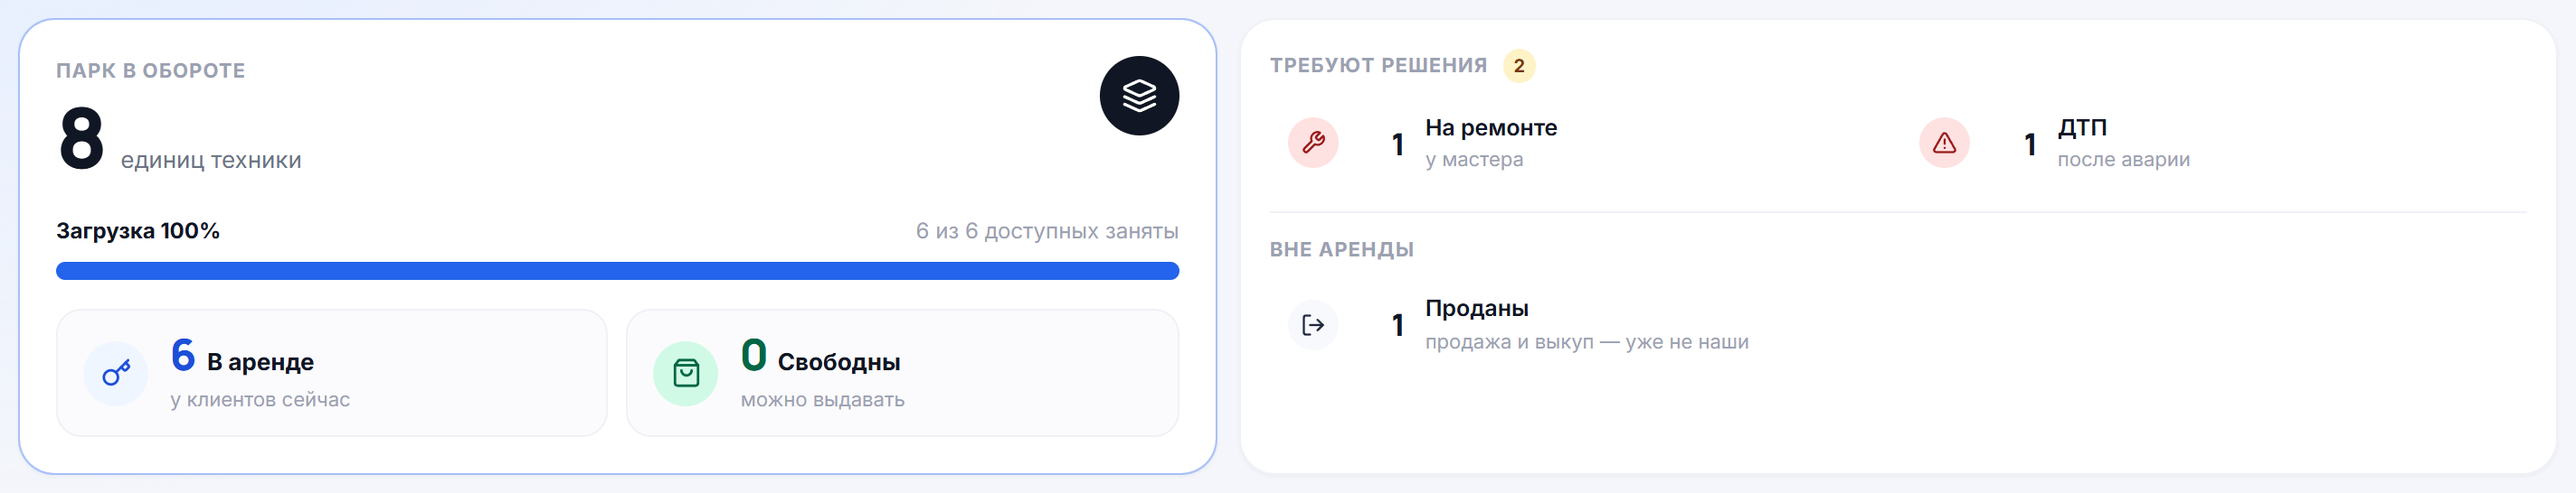
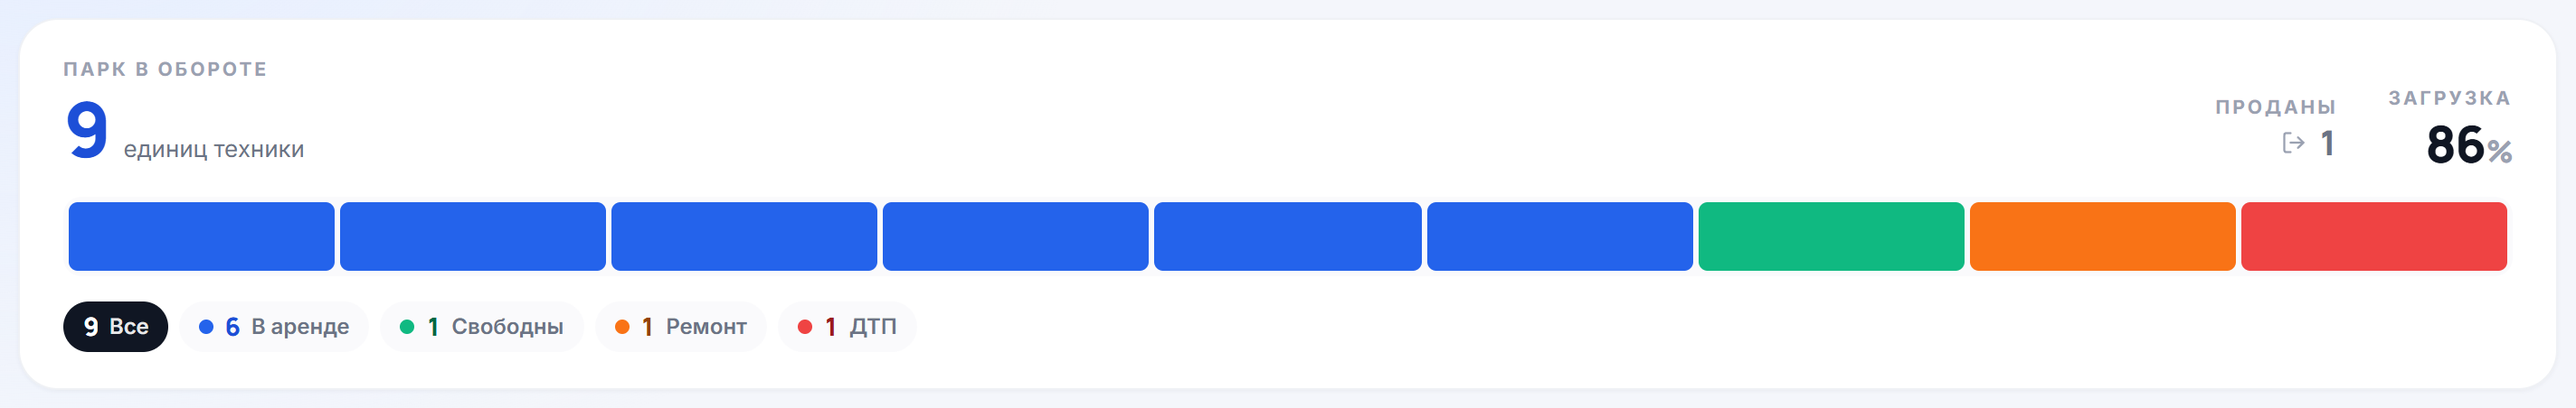
fix(парк): лента не растягивает штрихи — длина ленты отражает объём парка

diff --git a/apps/web/src/pages/fleet/Fleet.tsx b/apps/web/src/pages/fleet/Fleet.tsx
@@ -874,7 +874,7 @@ function ParkOverview({
           <div className="text-[10.5px] font-bold uppercase tracking-[0.14em] text-muted-2">
             Парк в обороте
           </div>
-          <div className="mt-1 flex items-baseline gap-2">
+          <div className="mt-1 flex items-baseline gap-2.5">
             <span
               className={cn(
                 "font-display text-[42px] font-extrabold leading-none tabular-nums transition-colors",
@@ -922,7 +922,7 @@ function ParkOverview({
       </div>
 
       {/* ── Лента парка: каждая единица техники — штрих ── */}
-      <div className="mt-4 flex h-11 items-stretch gap-[3px] overflow-hidden rounded-[10px] bg-surface-soft/70 p-[3px]">
+      <div className="mt-4 flex h-10 items-stretch justify-start gap-[3px] overflow-hidden rounded-[10px] bg-surface-soft/70 p-[3px]">
         {counters.total === 0 ? (
           <div className="flex w-full items-center justify-center text-[12px] text-muted-2">
             В парке пока нет техники
@@ -936,7 +936,7 @@ function ParkOverview({
                 onClick={() => onTab(seg.key)}
                 title={`${seg.label} · ${seg.hint}`}
                 className={cn(
-                  "min-w-[6px] flex-1 rounded-[5px] transition-[opacity,transform] duration-200 hover:-translate-y-0.5",
+                  "min-w-[6px] max-w-[34px] flex-1 rounded-[4px] transition-[opacity,transform] duration-200 hover:-translate-y-0.5",
                   seg.bar,
                   tab !== "all" && tab !== seg.key
                     ? "opacity-20"

diff --git a/apps/web/src/mobile/pages/MobileScooters.tsx b/apps/web/src/mobile/pages/MobileScooters.tsx
@@ -292,14 +292,14 @@ function ParkStrip({
           </div>
         </div>
       </div>
-      <div className="mt-3 flex h-8 items-stretch gap-[2px] overflow-hidden rounded-[9px] bg-surface-soft/70 p-[2px]">
+      <div className="mt-3 flex h-8 items-stretch justify-start gap-[2px] overflow-hidden rounded-[9px] bg-surface-soft/70 p-[2px]">
         {perUnit
           ? segments.flatMap((seg) =>
               Array.from({ length: seg.value }, (_, i) => (
                 <span
                   key={`${seg.key}-${i}`}
                   className={cn(
-                    "min-w-[5px] flex-1 rounded-[4px] transition-opacity",
+                    "min-w-[5px] max-w-[26px] flex-1 rounded-[4px] transition-opacity",
                     seg.bar,
                     dim(seg.key),
                   )}
